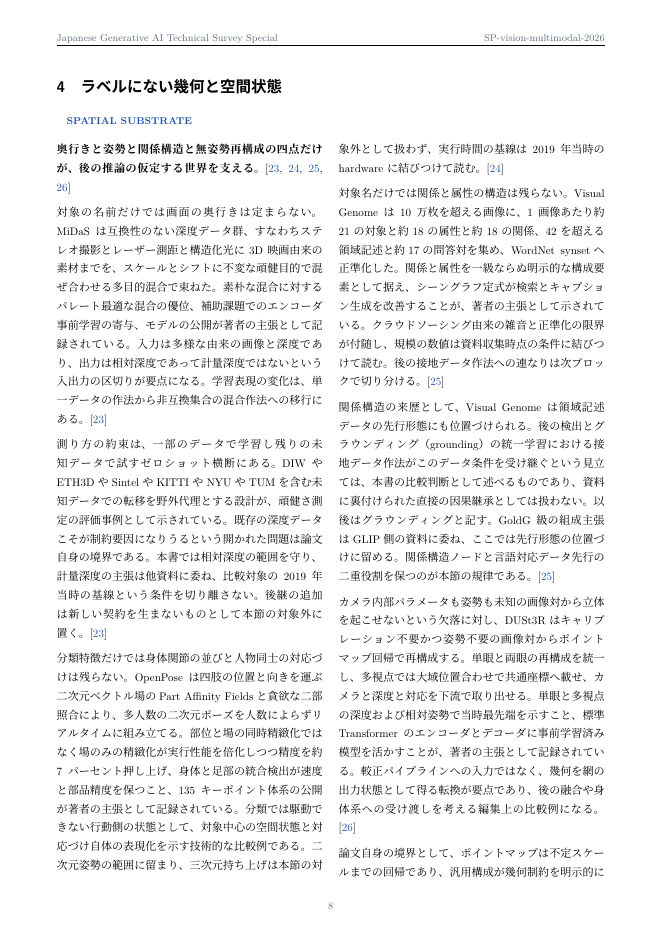
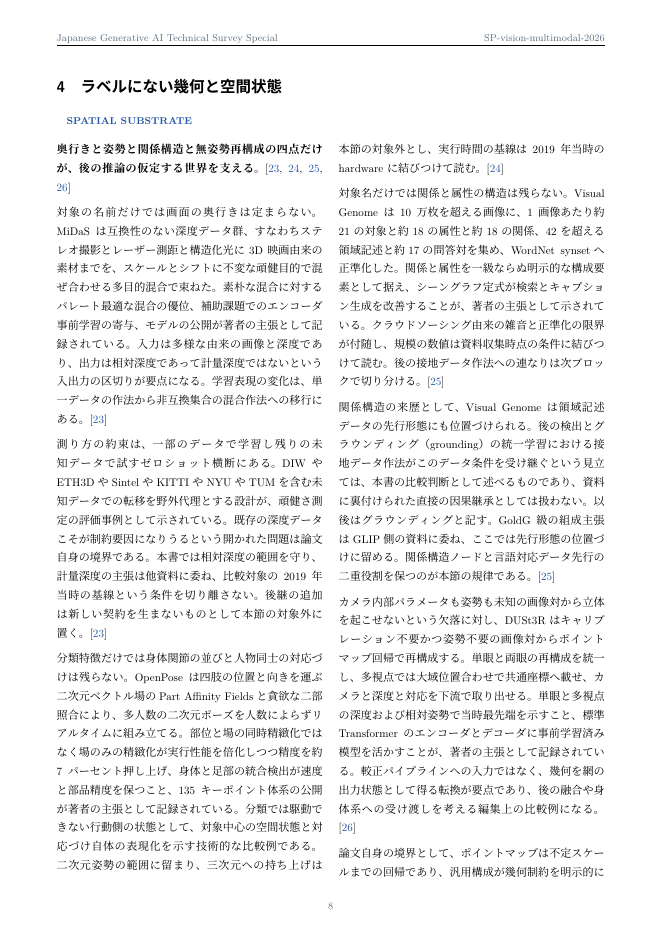
TS-003 R02-01 final bounded staged repair (Sol-final wording, non-canonical staging, VALIDATED_DRAFT preserved, no Core change)

Changed region(s): [[0.0906, 0.8985, 0.4834, 0.9295], [0.5136, 0.1549, 0.6344, 0.1859]]

diff --git a/sources/SP-vision-multimodal-2026/execution/reader-r02-r04-r05-repair-20261009/main.tex b/sources/SP-vision-multimodal-2026/execution/reader-r02-r04-r05-repair-20261009/main.tex
@@ -125,7 +125,7 @@
 \noindent\textbf{奥行きと姿勢と関係構造と無姿勢再構成の四点だけが、後の推論の仮定する世界を支える。}\autocite{vmd019,vmd020,vmd021,vmd022}\par\medskip
 \noindent 対象の名前だけでは画面の奥行きは定まらない。MiDaSは互換性のない深度データ群、すなわちステレオ撮影とレーザー測距と構造化光に3D映画由来の素材までを、スケールとシフトに不変な頑健目的で混ぜ合わせる多目的混合で束ねた。素朴な混合に対するパレート最適な混合の優位、補助課題でのエンコーダ事前学習の寄与、モデルの公開が著者の主張として記録されている。入力は多様な由来の画像と深度であり、出力は相対深度であって計量深度ではないという入出力の区切りが要点になる。学習表現の変化は、単一データの作法から非互換集合の混合作法への移行にある。\autocite{vmd019}\par\medskip
 \noindent 測り方の約束は、一部のデータで学習し残りの未知データで試すゼロショット横断にある。DIWやETH3DやSintelやKITTIやNYUやTUMを含む未知データでの転移を野外代理とする設計が、頑健さ測定の評価事例として示されている。既存の深度データこそが制約要因になりうるという開かれた問題は論文自身の境界である。本書では相対深度の範囲を守り、計量深度の主張は他資料に委ね、比較対象の2019年当時の基線という条件を切り離さない。後継の追加は新しい契約を生まないものとして本節の対象外に置く。\autocite{vmd019}\par\medskip
-\noindent 分類特徴だけでは身体関節の並びと人物同士の対応づけは残らない。OpenPoseは四肢の位置と向きを運ぶ二次元ベクトル場のPart Affinity Fieldsと貪欲な二部照合により、多人数の二次元ポーズを人数によらずリアルタイムに組み立てる。部位と場の同時精緻化ではなく場のみの精緻化が実行性能を倍化しつつ精度を約7パーセント押し上げ、身体と足部の統合検出が速度と部品精度を保つこと、135キーポイント体系の公開が著者の主張として記録されている。分類では駆動できない行動側の状態として、対象中心の空間状態と対応づけ自体の表現化を示す技術的な比較例である。二次元姿勢の範囲に留まり、三次元持ち上げは本節の対象外として扱わず、実行時間の基線は2019年当時の hardware に結びつけて読む。\autocite{vmd020}\par\medskip
+\noindent 分類特徴だけでは身体関節の並びと人物同士の対応づけは残らない。OpenPoseは四肢の位置と向きを運ぶ二次元ベクトル場のPart Affinity Fieldsと貪欲な二部照合により、多人数の二次元ポーズを人数によらずリアルタイムに組み立てる。部位と場の同時精緻化ではなく場のみの精緻化が実行性能を倍化しつつ精度を約7パーセント押し上げ、身体と足部の統合検出が速度と部品精度を保つこと、135キーポイント体系の公開が著者の主張として記録されている。分類では駆動できない行動側の状態として、対象中心の空間状態と対応づけ自体の表現化を示す技術的な比較例である。二次元姿勢の範囲に留まり、三次元への持ち上げは本節の対象外とし、実行時間の基線は2019年当時の hardware に結びつけて読む。\autocite{vmd020}\par\medskip
 \noindent 対象名だけでは関係と属性の構造は残らない。Visual Genomeは10万枚を超える画像に、1画像あたり約21の対象と約18の属性と約18の関係、42を超える領域記述と約17の問答対を集め、WordNet synsetへ正準化した。関係と属性を一級ならぬ明示的な構成要素として据え、シーングラフ定式が検索とキャプション生成を改善することが、著者の主張として示されている。クラウドソーシング由来の雑音と正準化の限界が付随し、規模の数値は資料収集時点の条件に結びつけて読む。後の接地データ作法への連なりは次ブロックで切り分ける。\autocite{vmd021}\par\medskip
 \noindent 関係構造の来歴として、Visual Genomeは領域記述データの先行形態にも位置づけられる。後の検出とグラウンディング（grounding）の統一学習における接地データ作法がこのデータ条件を受け継ぐという見立ては、本書の比較判断として述べるものであり、資料に裏付けられた直接の因果継承としては扱わない。以後はグラウンディングと記す。GoldG級の組成主張はGLIP側の資料に委ね、ここでは先行形態の位置づけに留める。関係構造ノードと言語対応データ先行の二重役割を保つのが本節の規律である。\autocite{vmd021}\par\medskip
 \noindent カメラ内部パラメータも姿勢も未知の画像対から立体を起こせないという欠落に対し、DUSt3Rはキャリブレーション不要かつ姿勢不要の画像対からポイントマップ回帰で再構成する。単眼と両眼の再構成を統一し、多視点では大域位置合わせで共通座標へ載せ、カメラと深度と対応を下流で取り出せる。単眼と多視点の深度および相対姿勢で当時最先端を示すこと、標準Transformerのエンコーダとデコーダに事前学習済み模型を活かすことが、著者の主張として記録されている。較正パイプラインへの入力ではなく、幾何を網の出力状態として得る転換が要点であり、後の融合や身体系への受け渡しを考える編集上の比較例になる。\autocite{vmd022}\par\medskip

diff --git a/sources/SP-vision-multimodal-2026/execution/reader-r02-r04-r05-repair-20261009/validate_staged_repair.py b/sources/SP-vision-multimodal-2026/execution/reader-r02-r04-r05-repair-20261009/validate_staged_repair.py
@@ -54,7 +54,7 @@ def main() -> int:
         ("後の融合や身体系への受け渡し exhibits になる", "後の融合や身体系への受け渡しを考える編集上の比較例になる"),
         ("後継の追加は新しい契約を生まないものとして cap の外に置く。",
          "後継の追加は新しい契約を生まないものとして本節の対象外に置く。"),
-        ("三次元持ち上げは cap により扱わず", "三次元持ち上げは本節の対象外として扱わず"),
+        ("三次元持ち上げは cap により扱わず", "三次元への持ち上げは本節の対象外とし"),
         ("範囲として記録する。IDは受入時に修正済みである。", "範囲として記録する。"),
     ]
     for i in changed:
@@ -82,6 +82,15 @@ def main() -> int:
                     "技術的な比較例である": 1, "編集上の比較例になる": 1,
                     "本節の対象外": 4}:
         errors.append(f"presence: {presence}")
+
+    # R02-01 independent-audit final wording (Sol STAGED_READER_REPAIR_REVISION_REQUIRED):
+    # superseded expression must be 0, Sol-final expression must be 1.
+    r0201_old = staged_full.count("三次元持ち上げは本節の対象外として扱わず")
+    r0201_new = staged_full.count("三次元への持ち上げは本節の対象外とし")
+    if r0201_old != 0:
+        errors.append(f"R02-01 superseded expression residual: {r0201_old}")
+    if r0201_new != 1:
+        errors.append(f"R02-01 Sol-final expression presence: {r0201_new}")
 
     # 4. Citations / bib / structure.
     def cites(t): return re.findall(r"\\autocite\{([^}]*)\}", t)

diff --git a/sources/SP-vision-multimodal-2026/execution/reader-r02-r04-r05-repair-20261009/apply_reader_repair_r02_r04_r05.py b/sources/SP-vision-multimodal-2026/execution/reader-r02-r04-r05-repair-20261009/apply_reader_repair_r02_r04_r05.py
@@ -52,7 +52,7 @@ RULES = [
     ("R02-P04-cap-1", "R02", "後継の追加は新しい契約を生まないものとして cap の外に置く。",
      "後継の追加は新しい契約を生まないものとして本節の対象外に置く。", 2),
     ("R02-P04-cap-2", "R02", "三次元持ち上げは cap により扱わず",
-     "三次元持ち上げは本節の対象外として扱わず", 1),
+     "三次元への持ち上げは本節の対象外とし", 1),
     ("R04-P07B-1", "R04", "範囲として記録する。IDは受入時に修正済みである。",
      "範囲として記録する。", 1),
 ]

diff --git a/sources/SP-vision-multimodal-2026/execution/reader-r02-r04-r05-repair-20261009/session.md b/sources/SP-vision-multimodal-2026/execution/reader-r02-r04-r05-repair-20261009/session.md
@@ -80,3 +80,87 @@ contract. Recorded in `sol-decision-record.md`; no Core change designed here.
 
 Only the edition-local staging directory is committed (normal commit,
 non-force push). STOP.
+
+## R02-01 Final Bounded Staged Repair (2026-10-09, TS-003)
+
+Prior sections above are preserved unchanged as the original execution history.
+This section records only the Sol-final R02-01 correction.
+
+Branch: `special/vision-multimodal-2026-work`
+
+Start SHA: `c2d4dc5b030a1796912c444f6597479f968f95d9`
+Start tree: `7c875a08c0a9c8038b40f87cf4095d0c710784ab`
+
+### Start guard (read-only, all MATCH)
+
+- Local branch `special/vision-multimodal-2026-work` — MATCH
+- Local HEAD `c2d4dc5b…` == expected SHA — MATCH
+- Local tree `7c875a08…` == expected tree — MATCH
+- Remote HEAD (`git ls-remote origin special/vision-multimodal-2026-work`)
+  `c2d4dc5b…` — MATCH
+- Tracked working tree clean (only untracked `scripts/__pycache__/` residue,
+  no tracked modification) — MATCH
+
+### Work performed
+
+1. Adopted Sol independent-review verdict
+   `STAGED_READER_REPAIR_REVISION_REQUIRED` (blocking: R02-01 only).
+   Sol-final wording: Before
+   `三次元持ち上げは本節の対象外として扱わず` → After
+   `三次元への持ち上げは本節の対象外とし`. R04/R05/other R02 repairs
+   change-prohibited and untouched.
+2. Edited `apply_reader_repair_r02_r04_r05.py` `R02-P04-cap-2` replacement to
+   the Sol-final After string (canonical pre-image
+   `三次元持ち上げは cap により扱わず` unchanged).
+3. Edited `validate_staged_repair.py` expected pair identically and added an
+   explicit assertion (superseded Before == 0, Sol-final After == 1).
+4. Re-ran wrapper: staged `main.tex`
+   (`f09a808d…`), `references.bib` byte-identical (`9c1e60fb…`),
+   `before-after.json` regenerated (total 9 occurrences).
+5. Rebuilt staging PDF (TinyTeX LuaLaTeX + Biber + LuaLaTeX ×2): 39 pages
+   (measured, no padding), 708589 bytes.
+6. Re-ran validator — PASS: regenerated `text-diff.txt`,
+   `citation-evidence-check.json`, `pdf-qa.json` (last two byte-identical to
+   prior, confirming stability).
+7. Regenerated visual QA from final PDF exact bytes
+   (`pdftoppm -png -r 80`): `qa-p08-08.png` updated (corrected p08);
+   `qa-p03-03.png`, `qa-p08-09.png`, `qa-p15-15.png` regenerated
+   byte-identical, confirming correspondence to the final PDF.
+8. Appended this session section and the `sol-decision-record.md` R02-01
+   revision section; prior audit/execution history preserved.
+
+### Verification (measured)
+
+- Canonical-vs-staged: 9 occurrences / 7 lines
+  (L59/L64/L127/L128/L131/L132/L215) — maintained.
+- Prior-staged-vs-new-staged: single P04 L128 line only.
+- Old `三次元持ち上げは本節の対象外として扱わず`: 0件 (TeX + PDF-text).
+- New `三次元への持ち上げは本節の対象外とし`: TeX 1件; PDF-text split by
+  two-column extraction (`三次元への持ち上げは` + `本節の対象外とし` each
+  present, `対象外として` 0件, `本節の対象外` TeX 4 / PDF 4) — 本文整合 PASS.
+- R02/R04/R05 forbidden (`exhibits`, `残差 reformulation`,
+  `IDは受入時に修正済みである。`, word-boundary `cap`): 0件 (TeX + PDF).
+- Citation sequence identical (178/178), keys 124/124, bib 124, cite ⊆ bib,
+  `.bbl` byte-identical (`3382f45e…`), sections 17/17, claimboundary 16/16,
+  P15 unique Evidence 40/40 — all maintained.
+- Staged TeX/PDF rebuild: 0 overfull/underfull/missing-glyphs/LaTeX-errors/
+  undefined-citations; preflight + corrected-page visual QA PASS.
+
+### Invariants (re-verified)
+
+- Canonical `surveys/special/vision-multimodal-2026/` bytes untouched
+  (`main.tex` `edcf8ef9…`, `references.bib` `9c1e60fb…` pins re-checked).
+- Architecture r9, Evidence, Selection, Draft, Stage Checkpoints, Human Gate
+  records: untouched. Production State unchanged; no Candidate/Preview/
+  Freeze/Release; no revalidation masquerade.
+- Shared Core v2 (`AGENTS.md`, `config/`, `schemas/`, `scripts/`,
+  `.github/workflows/`, Core docs): zero modifications.
+
+### Terminal
+
+`R02_R04_R05_STAGED_REPAIR_COMPLETE` / `R02_01_CORRECTED` /
+`CANONICAL_AUTHORITY_PRESERVED` / `CORE_V2_UNCHANGED` /
+`INDEPENDENT_STAGED_REVIEW_PENDING` / `PUBLICATION_CANDIDATE_HOLD`
+
+Only the edition-local staging directory is committed (normal commit,
+non-force push). STOP.

diff --git a/sources/SP-vision-multimodal-2026/execution/reader-r02-r04-r05-repair-20261009/sol-decision-record.md b/sources/SP-vision-multimodal-2026/execution/reader-r02-r04-r05-repair-20261009/sol-decision-record.md
@@ -82,3 +82,41 @@ only.
 
 `R02_R04_R05_STAGED_REPAIR_COMPLETE` / `CANONICAL_AUTHORITY_PRESERVED` /
 `CORE_V2_UNCHANGED` / `PUBLICATION_CANDIDATE_HOLD`. STOP.
+
+## R02-01 Independent Audit — Sol Final Revision (2026-10-09, TS-003 R02-01 Final Bounded Staged Repair)
+
+Prior sections above are preserved unchanged as the original repair history.
+This section records only the Sol-final R02-01 correction; no other
+finding or wording was reopened.
+
+- Independent review verdict (adopted as Sol):
+  `STAGED_READER_REPAIR_REVISION_REQUIRED`
+- Blocking finding: R02-01 only. R04, R05, and all other R02 repairs are
+  change-prohibited and were not modified.
+- Sol-final wording (determinative; no re-examination or alternative by Muse):
+  - Before (superseded staged expression):
+    `三次元持ち上げは本節の対象外として扱わず`
+  - After (Sol-final staged expression):
+    `三次元への持ち上げは本節の対象外とし`
+  - Canonical pre-image (unchanged in both scripts):
+    `三次元持ち上げは cap により扱わず`
+- Script changes (edition-local staging only):
+  - `apply_reader_repair_r02_r04_r05.py` `R02-P04-cap-2` replacement updated
+    to the Sol-final After string; canonical pre-image untouched.
+  - `validate_staged_repair.py` expected pair updated identically, plus an
+    explicit assertion: superseded Before count == 0, Sol-final After
+    count == 1.
+- Regenerated records in this repair:
+  `main.tex`, `before-after.json` (wrapper),
+  `main.pdf` (staging TeX rebuild),
+  `text-diff.txt`, `citation-evidence-check.json`, `pdf-qa.json` (validator),
+  `qa-p08-08.png` (corrected-page visual).
+  `qa-p03-03.png`, `qa-p08-09.png`, `qa-p15-15.png` were regenerated from the
+  final PDF exact bytes and verified byte-identical (no reflow beyond p08).
+- Result: old expression 0件 / new expression 1件; canonical-vs-staged
+  9 occurrences / 7 lines maintained; prior-staged-vs-new-staged delta is
+  the single P04 line only; validator PASS; visual QA PASS.
+- Terminal for this revision:
+  `R02_R04_R05_STAGED_REPAIR_COMPLETE` / `R02_01_CORRECTED` /
+  `CANONICAL_AUTHORITY_PRESERVED` / `CORE_V2_UNCHANGED` /
+  `INDEPENDENT_STAGED_REVIEW_PENDING` / `PUBLICATION_CANDIDATE_HOLD`.
